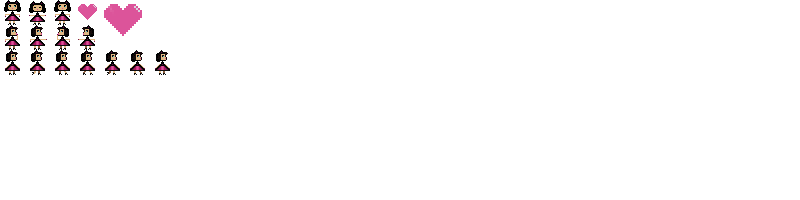
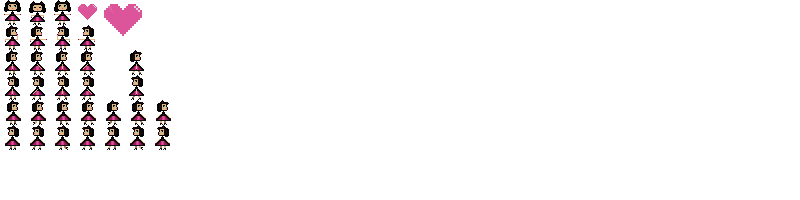
cleopatra walking animation, changed EnemyClass to include cleopatra

Changed region(s): [[0.0, 0.24, 0.2188, 0.75]]

diff --git a/EnemyClass.hpp b/EnemyClass.hpp
@@ -7,6 +7,7 @@
 using namespace sf;
 
 //Enemy class
+
 class EnemyClass : public GameObject{
 public:
 
@@ -35,6 +36,12 @@ public:
         Clock death_clock;
         Clock fireball_clock;
 
+
+
+        //cleo
+        Clock cleo_idle_clock;
+        Clock cleo_walk_clock;
+
         //phase change paramaters
         Clock phase_clock;
         //movement animations: 0,2 - idle, 1 - walk left, 3 - walk right
@@ -42,12 +49,13 @@ public:
         int phase_delta = 3000;
 
         while(true){
+            index_update(delta_time, cleo_walk_clock, 4, rectangles_index_walk_cleo_);
 
-            index_update(delta_time, imp_idle_clock, 6, rectangles_index_);
+            index_update(delta_time, imp_idle_clock, 7, rectangles_index_);
 
-            index_update(delta_time, imp_walk_clock, 7, rectangles_index_walk_);
+            index_update(delta_time, imp_walk_clock, 8, rectangles_index_walk_);
 
-            index_update(delta_time, attack_clock, 5, rectangles_index_attack_);
+            index_update(delta_time, attack_clock, 6, rectangles_index_attack_);
 
             if(imp_hp_ <= 0)
                 index_update(delta_time, death_clock, 6, rectangles_index_death_);
@@ -143,6 +151,18 @@ public:
     bool attacking_;
     int move_phase_;
 
+    //cleo parameters
+    std::vector<IntRect> rectangles_cleo_idle_;
+    int rectangles_index_idle_cleo_;
+
+    std::vector<IntRect> rectangles_cleo_walk_right_;
+    std::vector<IntRect> rectangles_cleo_walk_left_;
+    int rectangles_index_walk_cleo_;
+
+//    std::vector<IntRect> rectangles_cleo_attack_left_;
+//    std::vector<IntRect> rectangles_cleo_attack_right_;
+//    int rectangles_index_attack_cleo_;
+
 private:
     void index_update(int delta_time, Clock &clock, int iters, int &index){
 
@@ -155,13 +175,37 @@ private:
     }
 
     void init_rectangles(){
+        //Cleopatra indices
+        rectangles_index_idle_cleo_ = 0;
+        rectangles_index_walk_cleo_ = 0;
 
+        //imp indices
         rectangles_index_ = 0;
         rectangles_index_walk_ = 0;
         rectangles_index_attack_ = 0;
         rectangles_index_death_ = 0;
         rectangles_index_fireball_ = 0;
 
+
+        //Cleopatra rectangles
+        for (int i = 0; i < 4; i++){
+            rectangles_cleo_walk_left_.push_back(IntRect(i*25, 75, 25, 25));
+        }
+
+        for (int i = 0; i < 3; i++){
+            rectangles_cleo_idle_.push_back(IntRect(i*25, 0, 25, 25));
+        }
+        rectangles_cleo_idle_.push_back(IntRect(25, 0, 25, 25));
+
+        for (int i = 0; i < 4; i++){
+            rectangles_cleo_walk_left_.push_back(IntRect(i*25, 75, 25, 25));
+        }
+
+        for (int i = 0; i < 4; i++){
+            rectangles_cleo_walk_right_.push_back(IntRect(i*25, 50, 25, 25));
+        }
+
+        //Imp rectangles
         for (int i = 0; i < 7; i++){
             rectangles_imp_idle_.push_back(IntRect(10 + i*32, 209, 15, 15));
         }

diff --git a/CleopatraClass.hpp b/CleopatraClass.hpp
@@ -18,19 +18,55 @@ public:
 
      void Animation(){
 
-        int delta_time = 300;
+        int delta_time = 100;
         Clock cleo_idle_clock;
+        Clock cleo_walk_clock;
+        Clock attack_clock;
+        Clock death_clock;
+        Clock heart_clock;
 
         while(true){
-            index_update(delta_time, cleo_idle_clock, 4, rectangles_index_idle_);
-            sprite_.setTextureRect(rectangles_cleopatra_idle_[rectangles_index_idle_]);
+            //index_update(delta_time, cleo_idle_clock, 4, rectangles_index_idle_);
+            //sprite_.setTextureRect(rectangles_cleopatra_idle_[rectangles_index_idle_]);
+
+            index_update(delta_time, cleo_walk_clock, 4, rectangles_index_walk_);
+            sprite_.setPosition(Vector2f(sprite_.getPosition().x-0.00001f, sprite_.getPosition().y));
+            sprite_.setTextureRect(rectangles_cleo_walk_left_[rectangles_index_walk_]);
+
+            //index_update(delta_time, cleo_walk_clock, 4, rectangles_index_walk_);
+            //sprite_.setPosition(Vector2f(sprite_.getPosition().x+0.00001f, sprite_.getPosition().y));
+            //sprite_.setTextureRect(rectangles_cleo_walk_right_[rectangles_index_walk_]);
+
         }
     }
 
-    Sprite sprite_;
-    double scale_;
     std::vector<IntRect> rectangles_cleopatra_idle_;
     int rectangles_index_idle_;
+
+    std::vector<IntRect> rectangles_cleo_walk_right_;
+     std::vector<IntRect> rectangles_cleo_walk_left_;
+    int rectangles_index_walk_;
+
+    std::vector<IntRect> rectangles_cleo_attack_left_;
+    std::vector<IntRect> rectangles_cleo_attack_right_;
+    int rectangles_index_attack_;
+
+    std::vector<IntRect> rectangles_cleo_death_;
+    int rectangles_index_death_;
+
+    std::vector<IntRect> rectangles_cleo_heart_left_;
+    std::vector<IntRect> rectangles_cleo_heart_right_;
+    int rectangles_index_heart_;
+
+    Sprite sprite_;
+    double scale_;
+    double x_vel_;
+    double y_vel_;
+    double cleo_hp_;
+    bool facing_left_;
+    bool attacking_;
+    int move_phase_;
+
 
 private:
      void index_update(int delta_time, Clock &clock, int iters, int &index){
@@ -49,6 +85,14 @@ private:
             rectangles_cleopatra_idle_.push_back(IntRect(i*25, 0, 25, 25));
         }
         rectangles_cleopatra_idle_.push_back(IntRect(25, 0, 25, 25));
+
+        for (int i = 0; i < 4; i++){
+            rectangles_cleo_walk_left_.push_back(IntRect(i*25, 75, 25, 25));
+        }
+
+        for (int i = 0; i < 4; i++){
+            rectangles_cleo_walk_right_.push_back(IntRect(i*25, 50, 25, 25));
+        }
     }
 };
 

diff --git a/Construct_crusade.cpp b/Construct_crusade.cpp
@@ -105,8 +105,12 @@ int main(){
 
     Sprite imp_sprite(imp, IntRect(23, 377, 1, 1));
     Sprite fireball_sprite(imp, IntRect(10, 211, 18, 15));
-
     EnemyClass imp_1(imp_sprite, fireball_sprite, 1000, 440);
+
+    Texture cleo;
+    cleo.loadFromFile("assets/images/cleopatra.png");
+    Sprite cleo_sprite(cleo, IntRect(0,0,25,25));
+    EnemyClass cleopatra(cleo_sprite, fireball_sprite, 200, -500);
 
     //these threads do all the animation calculations - yes i said THREADS... IM A REAL PROGRAMMER!
     //create a thread asign a function and an object to the thread
@@ -125,16 +129,12 @@ int main(){
 
     //inicijalizacije za NIVO 2
 
-    //Cleopatra initialization
-    Texture cleo;
-    cleo.loadFromFile("assets/images/cleopatra.png");
-    Sprite cleo_sprite(cleo, IntRect(0,0,25,25));
+    //Cleopatra initialization must be before starting enemy thread
 
-    CleopatraClass cleopatra(cleo_sprite, 200, -500);
 
-    sf::Thread cleo_thread(&CleopatraClass::Animation, &cleopatra);
+    //sf::Thread cleo_thread(&CleopatraClass::Animation, &cleopatra);
     //start the thread
-    cleo_thread.launch();
+    //cleo_thread.launch();
 
     //start the main loop
     while (window.isOpen())
@@ -321,21 +321,24 @@ int main(){
         level_one(window, big_platforms, imp_1, player, hp_sprite);
 
         //prelaz iz nivoa 1 u nivo 2
-//        level = 2;
-//        player.sprite_.setPosition(0, -500);
-//        big_platforms.clear();
-//
-//        player.num_of_platforms_ = 0;
-//        init_platforms_level_2(big_platforms, player, platform_sprite);
-//
-//        player.platform_index_ = 6;
-//        player.platform_index_offset_ = 6;
+        level = 2;
+        player.sprite_.setPosition(0, -500);
+        big_platforms.clear();
+
+        player.num_of_platforms_ = 0;
+        init_platforms_level_2(big_platforms, player, platform_sprite);
+
+        player.platform_index_ = 6;
+        player.platform_index_offset_ = 6;
 
 
     }
     else if(level == 2){
 
         level_two(window, big_platforms, player);
+
+        cleopatra.sprite_.setTextureRect(imp_1.rectangles_cleo_walk_left_[imp_1.rectangles_index_walk_cleo_]);
+        cleopatra.sprite_.setPosition(Vector2f(cleopatra.sprite_.getPosition().x-0.1f, cleopatra.sprite_.getPosition().y));
 
         window.draw(cleopatra.sprite_);
     }
